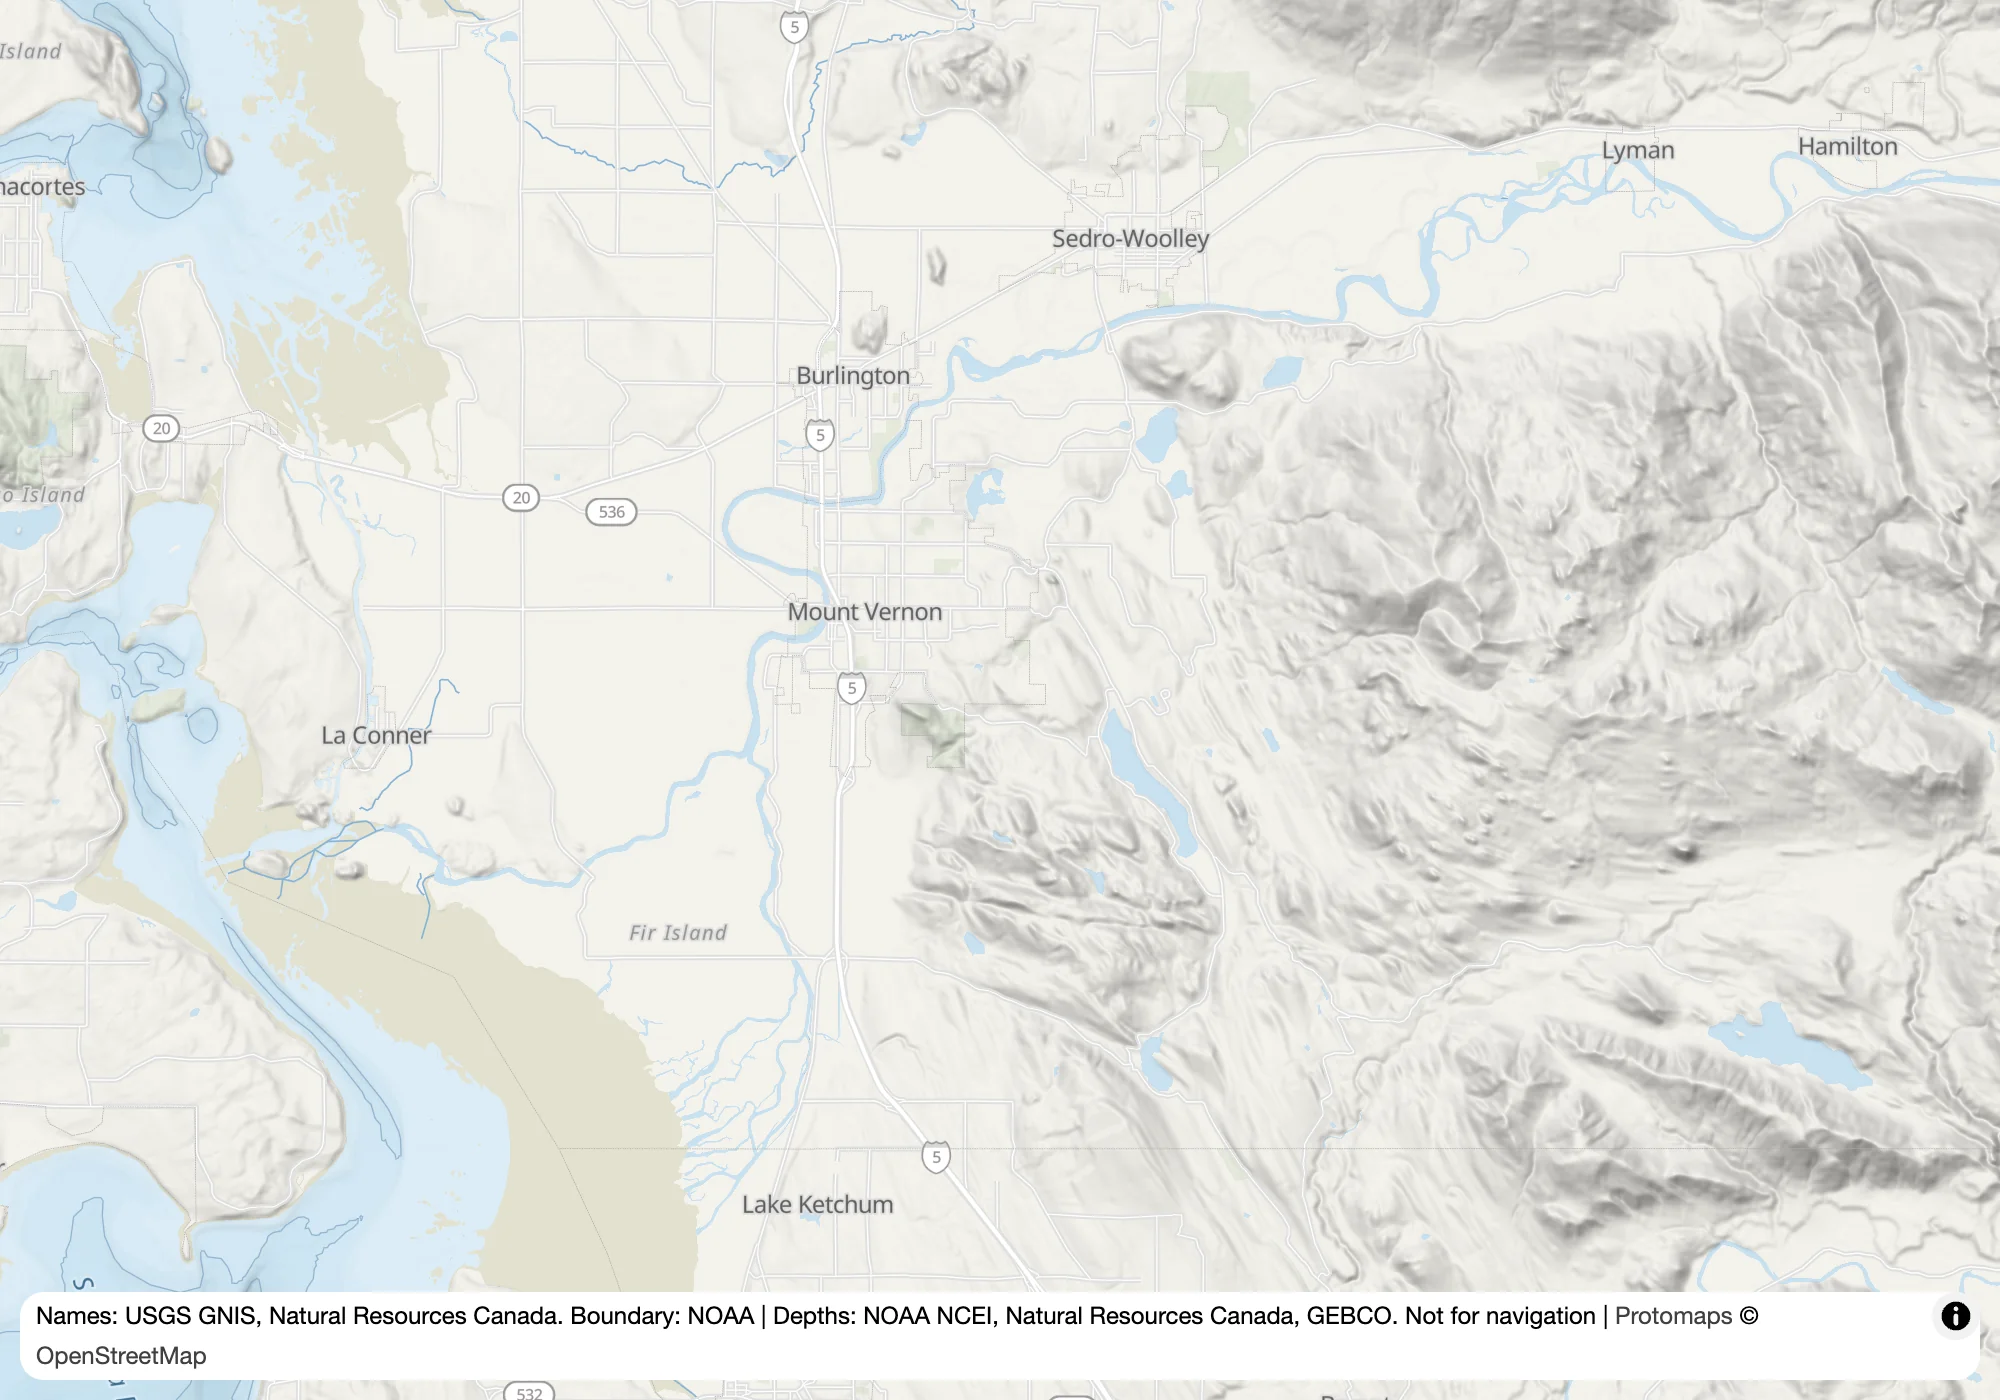
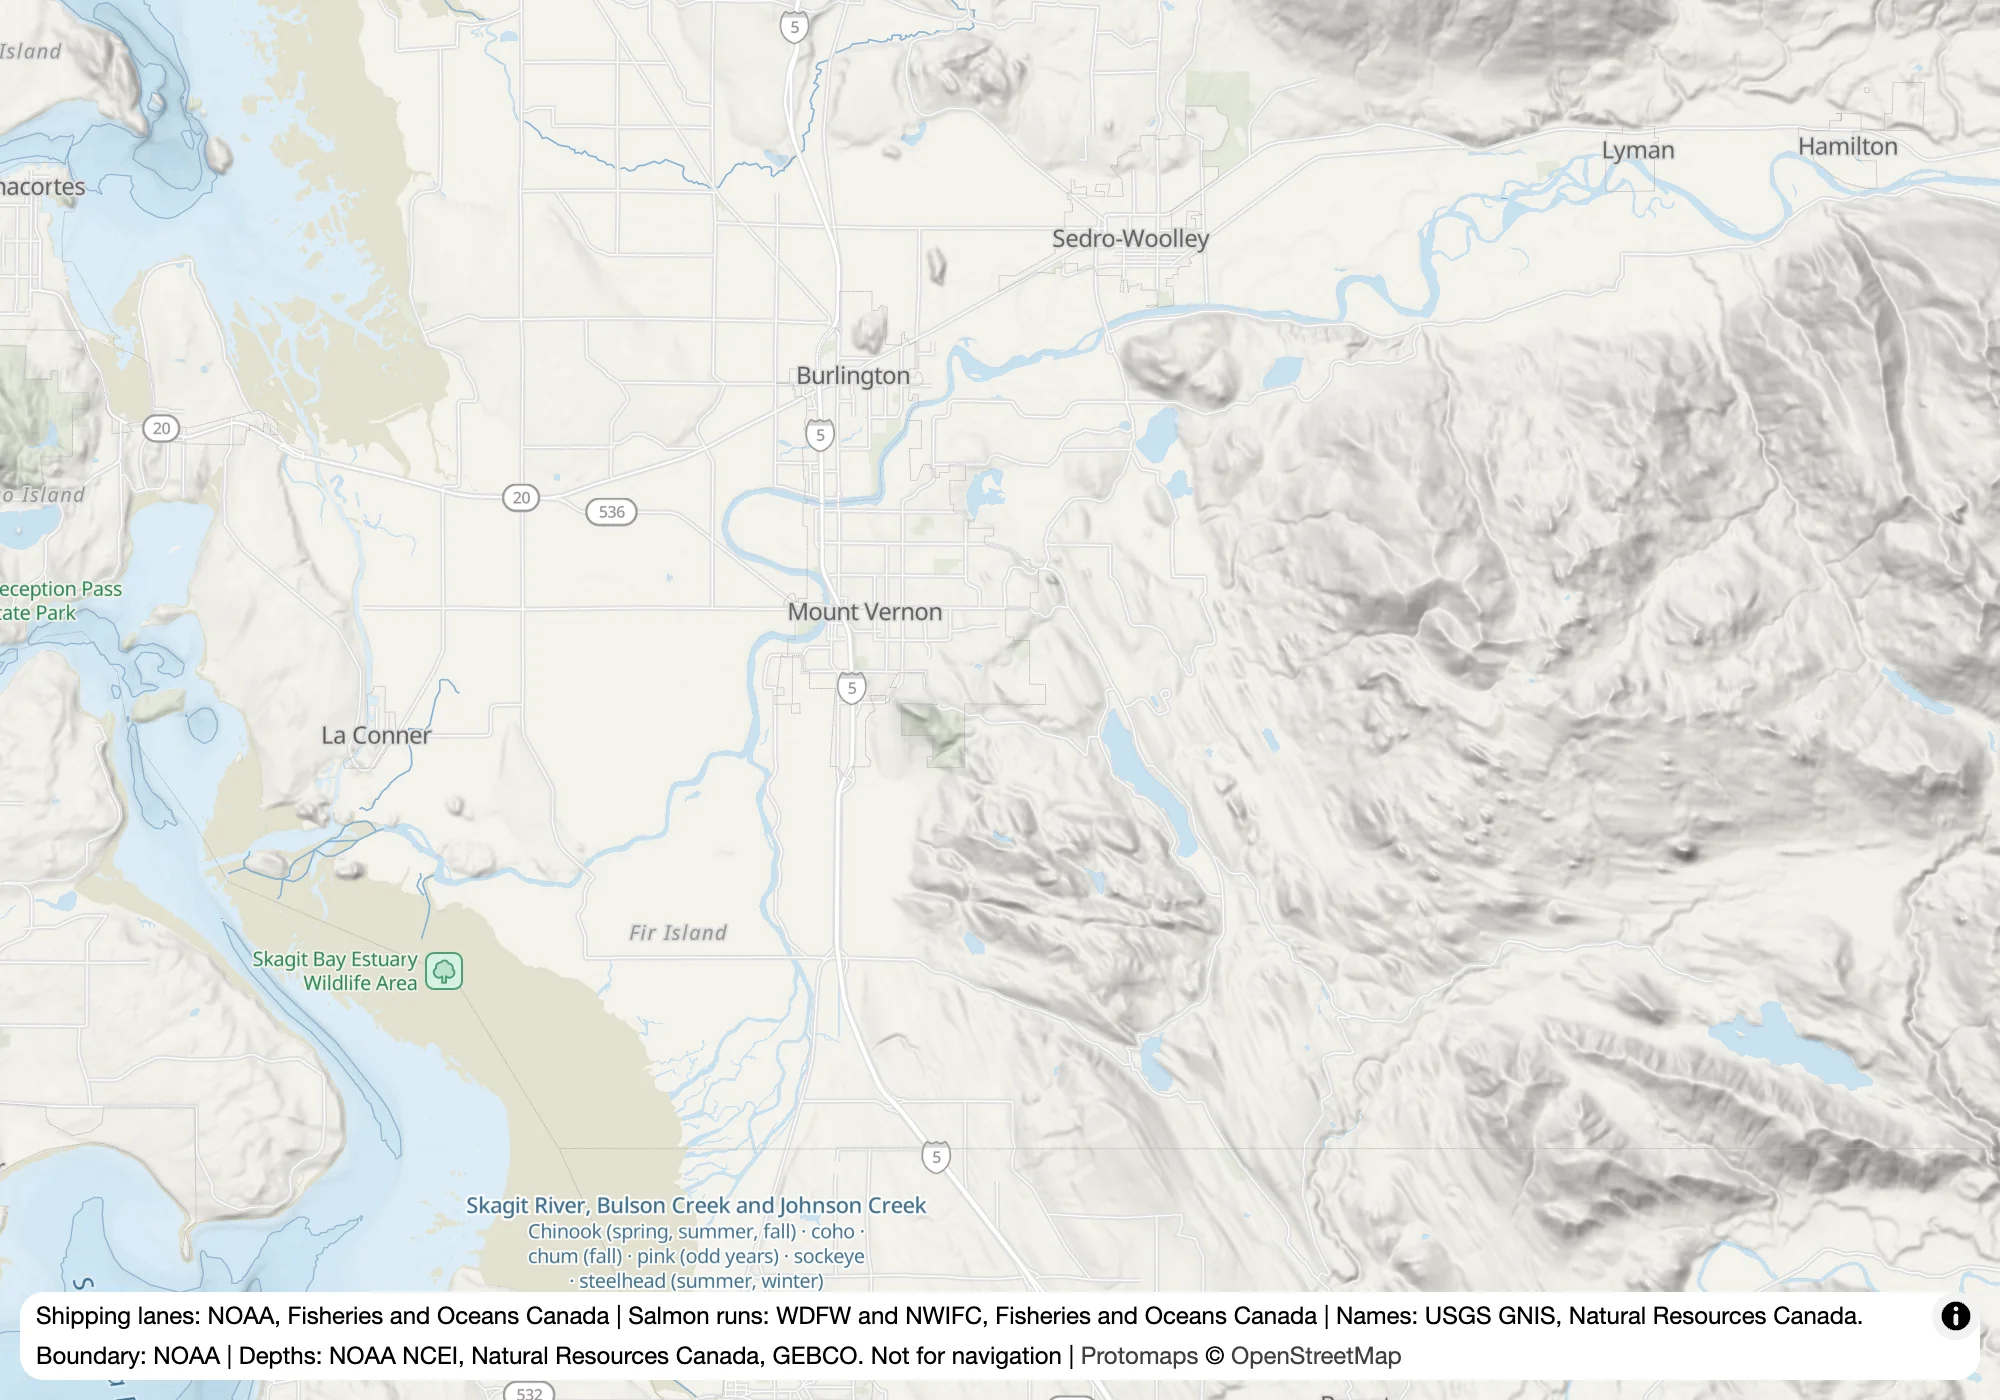
Decision 023 for peninsulas, 016 amended for nature reserves; pictures redrawn
The README's pictures are redrawn from a coast build of this branch on hostess. They also show what changed since they were last drawn on 2026-10-19, such as the newer Protomaps build. The before-and-after pictures for the PR are drawn from 2026.10.18 and from this branch, on the same data.

Changed region(s): [[0.0, 0.8293, 0.93, 0.9829], [0.124, 0.6757, 0.248, 0.7064], [0.0, 0.3993, 0.062, 0.4607]]

diff --git a/decisions/016-points-of-interest-are-where-people-watch-from.md b/decisions/016-points-of-interest-are-where-people-watch-from.md
@@ -1,6 +1,6 @@
 # 016 — Points of interest are where people watch from, not businesses
 
-**Status:** accepted; amended 2026-10-19 · **Decided:** 2026-10-15 · **Context:** Peter, looking at SalishSea.io's map after it moved to this basemap
+**Status:** accepted; amended 2026-10-19 and 2026-10-22 · **Decided:** 2026-10-15 · **Context:** Peter, looking at SalishSea.io's map after it moved to this basemap
 
 ## Context
 
@@ -12,12 +12,12 @@ What a person placing a whale sighting uses is where they were watching from and
 
 **The `pois` layer keeps these kinds and drops the rest** ([style/style.ts](../style/style.ts), `POI_KINDS`):
 
-- **where people watch from:** beach, park and peak;
+- **where people watch from:** beach, park, nature reserve and peak;
 - **what they set out from or can see:** marina, ferry terminal and aerodrome, which includes seaplane bases;
 - **museum and zoo**, for the Whale Museum in Friday Harbor and Point Defiance Zoo & Aquarium;
 - **bench, toilets and drinking water**, which help someone choose a spot to watch from. Protomaps' tiles hold them back to zoom 17, or 16 if named, so they appear only when the map is zoomed right in, and most have no name. The style can't keep only the ones near a beach, so they are kept everywhere.
 
-Everything else Protomaps draws in that layer is left out. (Amended 2026-10-19, by Peter: `forest` was kept at first, on the guess that a named forest is usually a park or reserve. In Washington it is mostly timberland named for its owner, such as "Rayonier Forest Resources", "Snoqualmie Forest" and "BTG Pactual", well away from the water, and the parks people watch from are kept as `park`. Forests are left out.) (Amended 2026-10-16: the layer's islets and small islands, the kind `coastline`, which Protomaps' style never draws, are drawn by a layer of their own as island names, not as points of interest; see [decision 018](018-the-names-the-map-labels-are-published-as-lists.md).) The layer's other conditions, such as the zoom each place first appears at, are Protomaps' own and unchanged. The style replaces only the list of kinds, and if a future Protomaps release changes the shape of the layer's filter, building the style fails rather than silently drawing everything.
+Everything else Protomaps draws in that layer is left out. (Amended 2026-10-19, by Peter: `forest` was kept at first, on the guess that a named forest is usually a park or reserve. In Washington it is mostly timberland named for its owner, such as "Rayonier Forest Resources", "Snoqualmie Forest" and "BTG Pactual", well away from the water, and the parks people watch from are kept as `park`. Forests are left out.) (Amended 2026-10-16: the layer's islets and small islands, the kind `coastline`, which Protomaps' style never draws, are drawn by a layer of their own as island names, not as points of interest; see [decision 018](018-the-names-the-map-labels-are-published-as-lists.md).) (Amended 2026-10-22, by Peter: `nature_reserve` is kept. OpenStreetMap tags many Washington state parks as nature reserves rather than parks, such as Deception Pass, Moran, Fort Casey, Larrabee and Miller Peninsula State Parks, so none of them had a name. Protomaps' style gives the kind no icon and no colour, so the name would be drawn in the background's colour; reserves are drawn as parks are, with the park's icon and green. Over the test window they add 338 names to about 1,900 parks; some are inland, such as Burns Bog, which the style can't tell apart. They are drawn by a layer of their own, below the islands' names, so that a reserve covering an island, as Kukutali Preserve covers Kiket Island, gives way to the island's name.) The layer's other conditions, such as the zoom each place first appears at, are Protomaps' own and unchanged. The style replaces only the list of kinds, and if a future Protomaps release changes the shape of the layer's filter, building the style fails rather than silently drawing everything.
 
 ## Rejected
 
@@ -27,4 +27,5 @@ Everything else Protomaps draws in that layer is left out. (Amended 2026-10-19, 
 
 ## Known problems
 
+- A park named for its island takes the island's name's place, as Hope Island Marine State Park does Hope Island's: the points of interest are placed before the islands' names. Reserves are placed after them (amended 2026-10-22), but parks were left as they were.
 - A city's benches are kept too, at the closest zoom.

diff --git a/decisions/README.md b/decisions/README.md
@@ -25,10 +25,11 @@ Recorded here:
 - [013](013-the-tiles-are-in-web-mercator.md): every tile is in Web Mercator, because MapLibre draws no other grid and PMTiles can't name another; UTM zone 10N was rejected, as it fits only 126–120°W.
 - [014](014-image-tiles-are-drawn-from-the-style-along-the-shore.md): image tiles, for pictures stitched from tiles, are drawn from the style without its labels, by MapLibre GL in headless Chromium; zooms 11 to 15 only along the Salish Sea's shore.
 - [015](015-landmarks-are-what-the-charts-mark-and-tall-towers.md): landmarks are named lighthouses and major lights, what the charts mark as conspicuous, and radio and television towers that are charted or 100 m tall, from OpenStreetMap; points within 500 m are one landmark.
-- [016](016-points-of-interest-are-where-people-watch-from.md): of Protomaps' points of interest, only beaches, parks, peaks, marinas, ferry terminals, aerodromes, museums, zoos, and at the closest zooms benches, toilets and drinking water; shops, restaurants and other businesses are left out.
+- [016](016-points-of-interest-are-where-people-watch-from.md): of Protomaps' points of interest, only beaches, parks and nature reserves (drawn as parks), peaks, marinas, ferry terminals, aerodromes, museums, zoos, and at the closest zooms benches, toilets and drinking water; shops, restaurants and other businesses are left out.
 - [017](017-depth-labels-are-set-in-a-serif.md): depth labels are set in Noto Serif, turned along their lines, because Noto Sans's 1 turned along a climbing line reads as a 7; the serif is served with Protomaps' fonts under `assets/fonts-<hash>/`.
 - [018](018-the-names-the-map-labels-are-published-as-lists.md): the Salish Sea's places a search offers, about 2,100 of the names the map labels (the gazetteers' larger water bodies and points; OpenStreetMap's larger islands, cities, towns and villages, and one ferry terminal for each landing), are published with each version as two JSON lists, apart because their licences differ, and the style names them in its metadata as `salishsea:places`.
 - [019](019-shipping-lanes-are-drawn-from-the-charts.md): shipping lanes, two-way routes and precautionary areas are drawn from zoom 8 as faint raspberry outlines, with arrows from 10 and names from 12, the separation zones undrawn, from NOAA's charts wherever NOAA charts and Canada's where it doesn't; on the map, not in the image tiles.
 - [020](020-each-river-mouth-is-labelled-with-its-salmon-runs.md): each named river system that reaches the sea is labelled where it does with its salmon and steelhead runs, such as "Chinook (spring, summer, fall) · coho · chum (fall)", from WDFW and NWIFC's SWIFD (systems built from its lines) and Fisheries and Oceans Canada's NuSEDS (by watershed code); placed before towns' names; swept for labels that come and go before a release; not in the image tiles.
 - [021](021-full-builds-run-on-hostess.md): full builds run in Docker on hostess, Peter's desktop, with the source grids kept in `~/basemap-data`, and publish from there; the Fly machine of 008 is retired.
 - [022](022-the-protomaps-build-is-moved-forward-before-each-version.md): the Protomaps build stays pinned, and is moved to the newest daily build before each version is built for publishing, because Protomaps keeps only about a week of them.
+- [023](023-peninsulas-are-named-from-a-zoom-set-by-their-size.md): peninsulas are named from OpenStreetMap's outlines, in the islands' grey italic, from two zooms before each fits one tile: the Olympic and Kitsap Peninsulas from zoom 6, Key Peninsula from 7; Protomaps' own peninsula points, all from zoom 12, are left undrawn.

diff --git a/decisions/023-peninsulas-are-named-from-a-zoom-set-by-their-size.md b/decisions/023-peninsulas-are-named-from-a-zoom-set-by-their-size.md
@@ -1,0 +1,27 @@
+# 023 — Peninsulas are named, from a zoom set by their size
+
+**Status:** accepted · **Decided:** 2026-10-22, by Peter
+
+## Context
+
+Peter noticed that Key Peninsula and Miller Peninsula had no names on the map, nor had any other peninsula, though they are among the larger shapes of Puget Sound's shore.
+
+Protomaps' tiles do hold them, but only as points of interest of the kind `peninsula`, each from zoom 12 whatever its size, and Protomaps' style never draws that kind. Around the Salish Sea there are 14 of them, from Bailey Peninsula on Lake Washington to the Olympic Peninsula. A name from zoom 12 suits Davison Head on San Juan Island, but the Olympic Peninsula is then many tiles across and its name a small mark somewhere in the mountains.
+
+The government gazetteers list peninsulas too, as points: GNIS files Key Peninsula as a cape, at a point inland near Vaughn, and Canada's names database lists about fifty, most on the outer coast. A point says where a peninsula is, but not how big it is.
+
+## Decision
+
+**Peninsulas are named from OpenStreetMap's outlines, from a zoom set by their size.** [scripts/peninsulas.py](../scripts/peninsulas.py) writes every named `natural=peninsula`, at the point inside its outline furthest from its edge, from two zooms before the outline fits one tile, when it spans about a quarter of one. That is the rule the islets follow ([decision 018](018-the-names-the-map-labels-are-published-as-lists.md)). It gives the Olympic and Kitsap Peninsulas from zoom 6, Key Peninsula from 7, Miller, Quimper and Saanich Peninsulas from 8, and Davison Head from 12. A peninsula mapped only as a point is named from 12, as Protomaps gives every peninsula. Over the whole coast that is 35 names.
+
+**They are drawn as the islands' names are,** in grey italic ([style/style.ts](../style/style.ts), `peninsula_labels`), and where they collide they give way to towns' names, points of interest and the names of the larger water bodies, as Kitsap Peninsula's does to Bremerton and Silverdale at zoom 8. They ride in the landmarks' archive, OpenStreetMap's like the islets, whose tiles now start at zoom 6 rather than 9. Everything else in it carries its own first zoom, from 9 on, so the lower zooms hold only peninsulas. Protomaps' peninsula points are left undrawn, so no peninsula is named twice. The image tiles have no labels and are unchanged.
+
+## Rejected
+
+- **Protomaps' points, from zoom 12.** A change to the style alone, and the first one offered, but the large peninsulas would be named only once the map is zoomed far past them.
+- **The gazetteers' points.** They hold no size, so every peninsula would appear at one zoom, and Key Peninsula's GNIS point lies about 9 km south of the widest part of its outline, where its name sits.
+
+## Known problems
+
+- Burrard Peninsula, in Vancouver, is named twice from zoom 12: OpenStreetMap maps it as an outline named "Burrard Peninsula" and as a point named "Burrard Peninsula / Ulxen", and the two names don't match.
+- Peninsulas aren't in the lists of places a search offers (decision 018).

diff --git a/README.md b/README.md
@@ -68,7 +68,8 @@ Everything the style needs, the labels' fonts and the icons included, is served 
 - **Land** is one flat colour, so that sightings stand out, except parks in a faint green: many are where people watch from shore. Rivers and streams are blue ([003](decisions/003-land-is-flat-except-parks.md)).
 - **Ferry routes** are dashed, from zoom 9, because many casual sightings are made from ferries ([005](decisions/005-ferry-routes-are-drawn-from-zoom-9.md)).
 - **Landmarks** people steer by: lighthouses, tall radio and television towers, and what the charts mark as conspicuous from the water, each with an icon and, closer in, its name ([015](decisions/015-landmarks-are-what-the-charts-mark-and-tall-towers.md)).
-- **Places people watch from**, such as beaches, parks, marinas and ferry terminals, are named from OpenStreetMap; shops, restaurants and other businesses are not ([016](decisions/016-points-of-interest-are-where-people-watch-from.md)).
+- **Places people watch from**, such as beaches, parks, nature reserves, marinas and ferry terminals, are named from OpenStreetMap; shops, restaurants and other businesses are not ([016](decisions/016-points-of-interest-are-where-people-watch-from.md)).
+- **Peninsulas** are named from a zoom set by their size, Key Peninsula from 7 and Miller Peninsula from 8 ([023](decisions/023-peninsulas-are-named-from-a-zoom-set-by-their-size.md)).
 - **Salmon runs** at the mouth of each named river that reaches the sea, such as "Chinook (spring, summer, fall) · coho · chum (fall)", because resident killer whales follow salmon ([020](decisions/020-each-river-mouth-is-labelled-with-its-salmon-runs.md)).
 - **Shipping lanes** and two-way routes, faintly outlined from zoom 8, with precautionary areas dashed, arrows for their direction from 10 and names such as "Northbound lane" from 12, as reports name them. They are left out of the image tiles ([019](decisions/019-shipping-lanes-are-drawn-from-the-charts.md)).
 - **Bays, straits, channels and points** are named from the US and Canadian government gazetteers, and the boundary at sea is drawn ([006](decisions/006-marine-names-and-the-boundary-come-from-government-gazetteers.md)).
